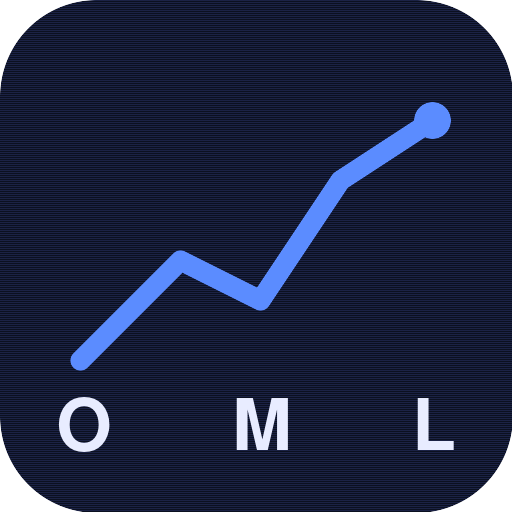
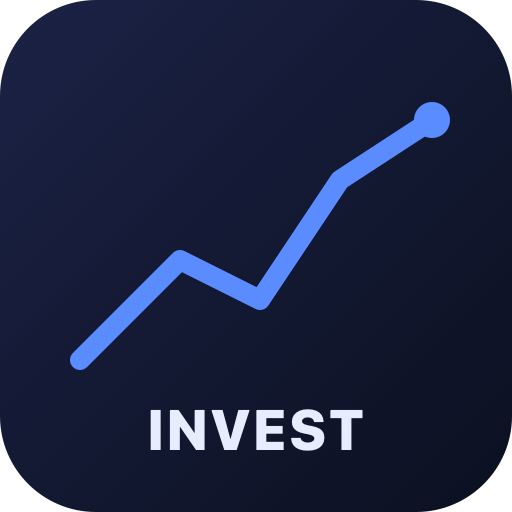
chore: rename app branding to INVEST

diff --git a/index.html b/index.html
@@ -5,11 +5,11 @@
 <meta name="viewport" content="width=device-width, initial-scale=1, viewport-fit=cover" />
 <meta name="apple-mobile-web-app-capable" content="yes" />
 <meta name="apple-mobile-web-app-status-bar-style" content="black-translucent" />
-<meta name="apple-mobile-web-app-title" content="OML" />
+<meta name="apple-mobile-web-app-title" content="INVEST" />
 <link rel="apple-touch-icon" href="./icons/icon-192.png" />
 <link rel="manifest" href="./manifest.webmanifest" />
 <meta name="theme-color" content="#0b1020" />
-<title>OML Alert</title>
+<title>INVEST Alert</title>
 <style>
   :root {
     --bg: #0b1020;
@@ -782,7 +782,7 @@ $('testPush').addEventListener('click', async () => {
       const p = await Notification.requestPermission();
       if (p !== 'granted') throw new Error('Brak pozwolenia.');
     }
-    await reg.showNotification('OML Alert (test)', {
+    await reg.showNotification('INVEST Alert (test)', {
       body: 'To jest powiadomienie testowe — wszystko gra.',
       icon: './icons/icon-192.png',
       badge: './icons/icon-192.png',